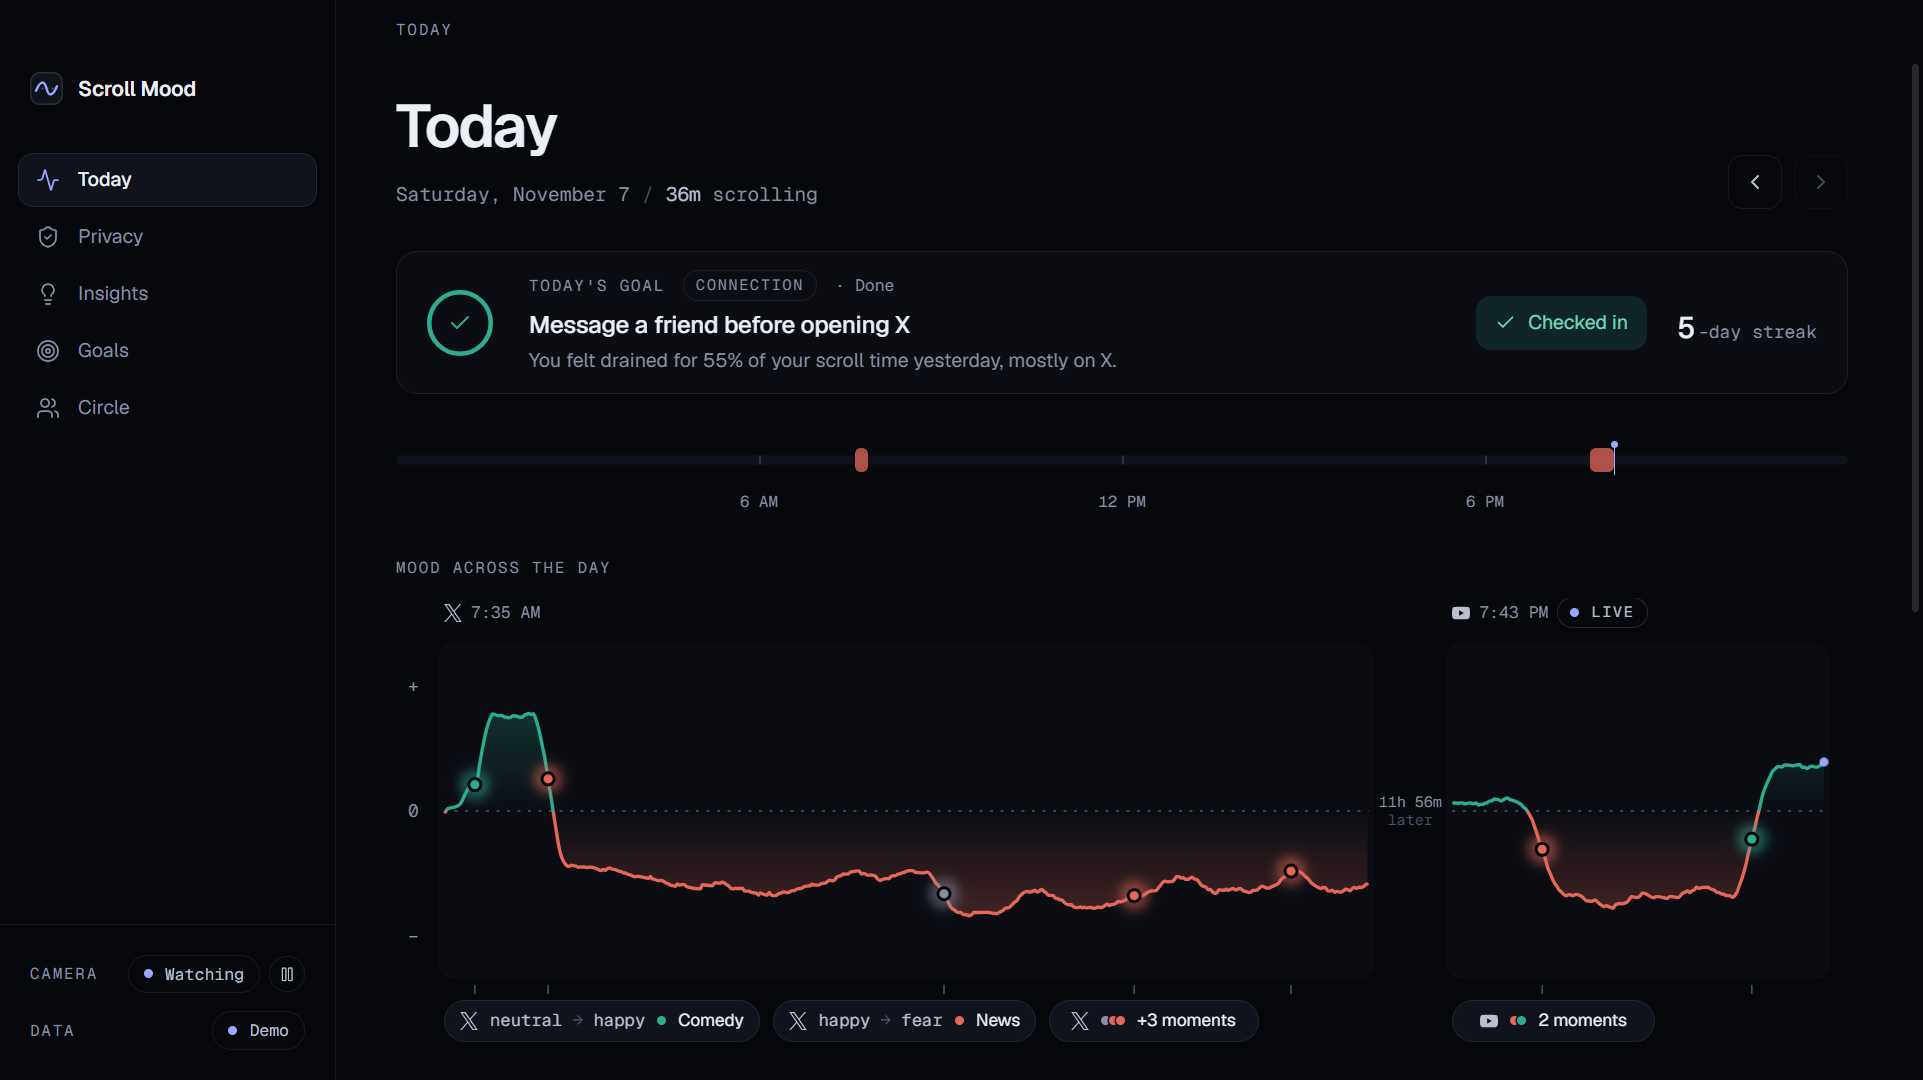
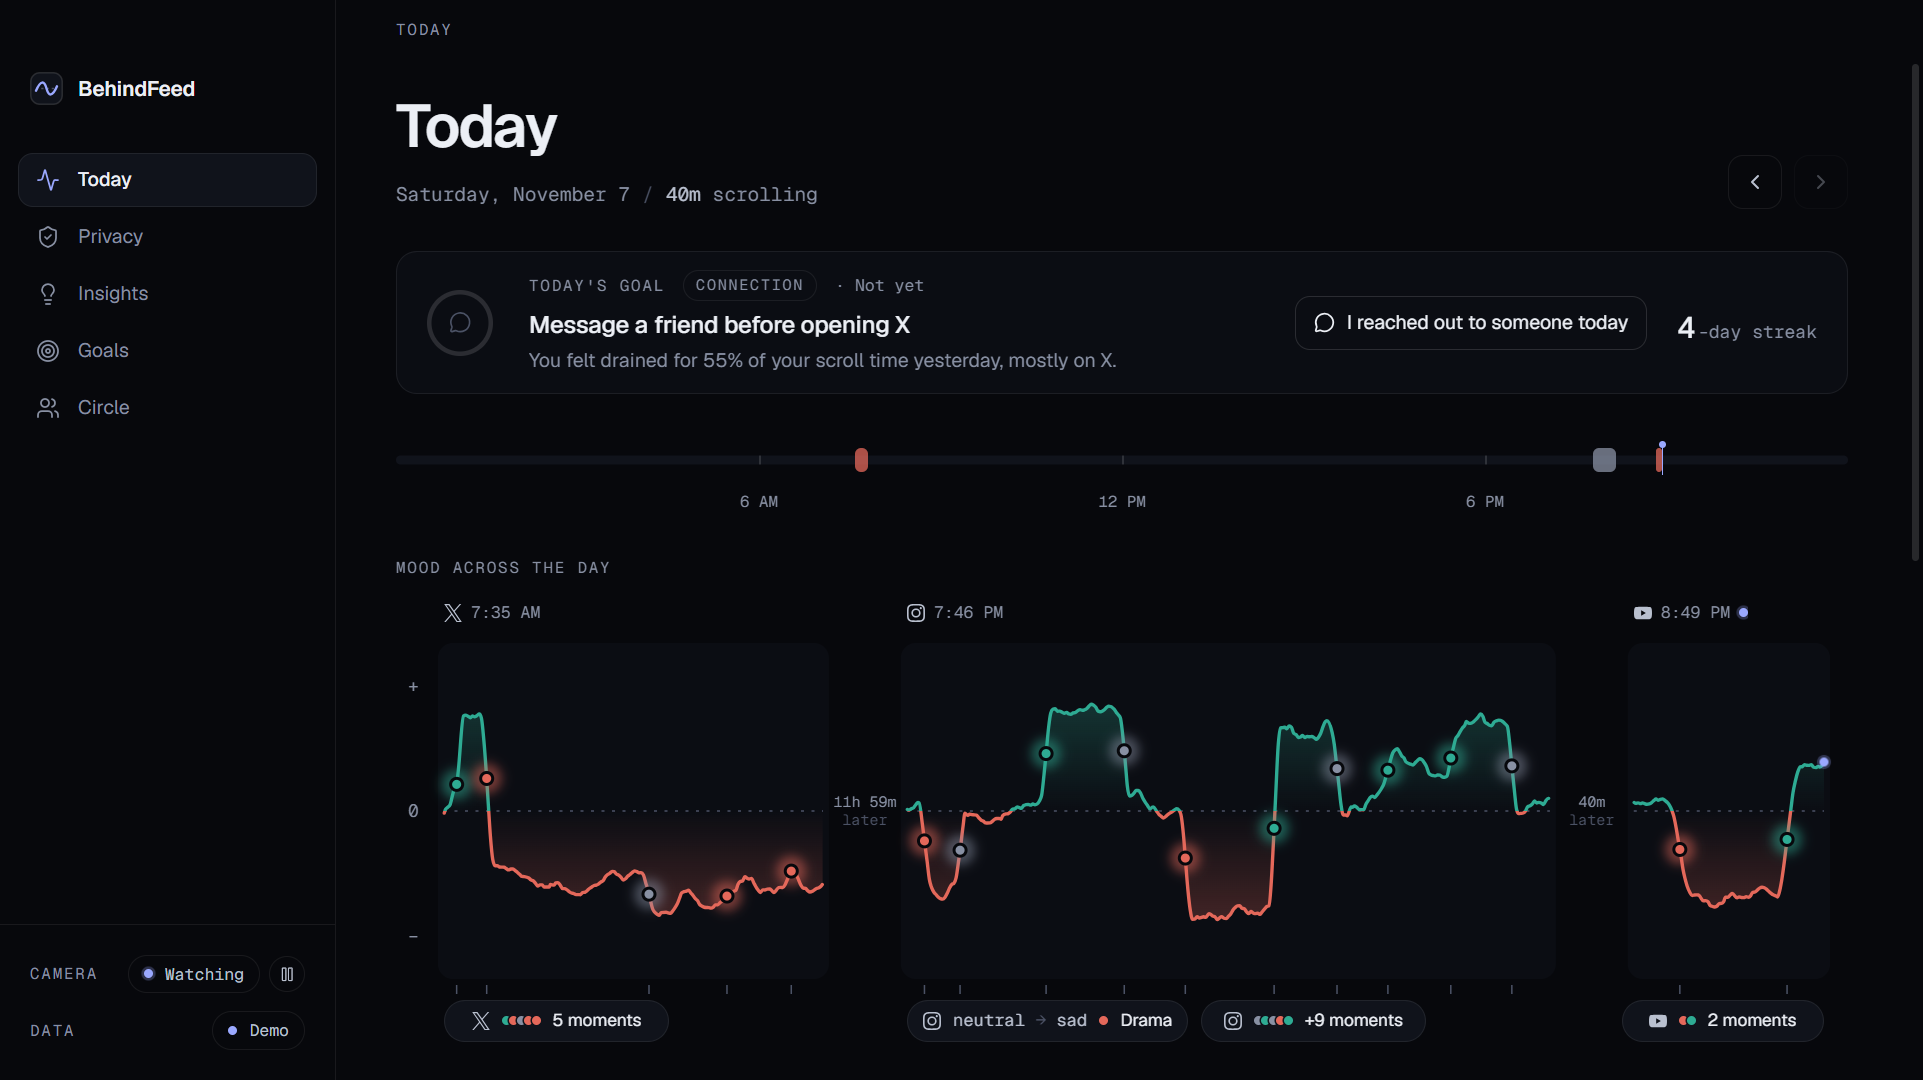
Rename the app from Scroll Mood to BehindFeed
- Window title, wordmark, consent screen, Privacy page, Circle messages
  (bot name and text) and docs now say BehindFeed
- Internal names: preload bridge window.behindfeed (BehindFeedBridge),
  Windows AppUserModelID com.behindfeed.app, storage keys behindfeed.*,
  package name behindfeed-frontend
- README screenshot retaken

diff --git a/frontend/src/data/circle.ts b/frontend/src/data/circle.ts
@@ -1,6 +1,6 @@
 // Scroll Circle: settings, the share path and the demo feed. Settings and the sent log stay on this device
 // (localStorage, try/catch). Sending goes through the Electron main process via the preload bridge.
-import type { DiscordPayload, ScrollMoodBridge, SendResult } from '../types/bridge'
+import type { DiscordPayload, BehindFeedBridge, SendResult } from '../types/bridge'
 import { KEYS, readJson, writeJson } from './localStore'
 
 export interface CircleSettings {
@@ -21,7 +21,7 @@ export interface CircleSample {
   sample: true
 }
 
-const bridge = (): ScrollMoodBridge | undefined => (window as unknown as { scrollMood?: ScrollMoodBridge }).scrollMood
+const bridge = (): BehindFeedBridge | undefined => (window as unknown as { behindfeed?: BehindFeedBridge }).behindfeed
 
 export const getCircleSettings = (): CircleSettings => ({ webhookUrl: '', displayName: '', ...readJson<Partial<CircleSettings>>(KEYS.circle, {}) })
 
@@ -33,7 +33,7 @@ export const getSentLog = (): SentItem[] => readJson<SentItem[]>(KEYS.circleSent
 export async function shareToCircle(payload: DiscordPayload): Promise<SendResult> {
   const { webhookUrl } = getCircleSettings()
   const b = bridge()
-  if (!b) return { ok: false, error: 'unavailable', message: 'Sharing works in the Scroll Mood desktop app.' }
+  if (!b) return { ok: false, error: 'unavailable', message: 'Sharing works in the BehindFeed desktop app.' }
   if (!webhookUrl) return { ok: false, error: 'invalid-url', message: 'Add a Discord webhook URL first.' }
   const result = await b.sendToCircle(webhookUrl, payload)
   if (result.ok) writeJson(KEYS.circleSent, [{ at: Date.now(), content: payload.content }, ...getSentLog()].slice(0, 20))

diff --git a/frontend/src/pages/PrivacyPage.tsx b/frontend/src/pages/PrivacyPage.tsx
@@ -16,7 +16,7 @@ export default function PrivacyPage() {
     <section className="flex flex-col gap-10">
       <header>
         <h1 className="text-[40px] font-semibold leading-none tracking-[-0.03em]">Privacy</h1>
-        <p className="mt-4 max-w-2xl text-[14px] text-muted">What Scroll Mood watches, what it keeps, and the gentle nudges it can give you.</p>
+        <p className="mt-4 max-w-2xl text-[14px] text-muted">What BehindFeed watches, what it keeps, and the gentle nudges it can give you.</p>
       </header>
 
       <PauseCard />
@@ -33,7 +33,7 @@ export default function PrivacyPage() {
             <div className="label">Connect-instead nudges</div>
             <h2 className="mt-2 text-[20px] font-medium tracking-[-0.01em] text-ink">A gentle nudge when scrolling starts to drain you</h2>
             <p className="mt-2 max-w-xl text-[13px] leading-relaxed text-muted">
-              If your mood signal stays below neutral for 5 minutes or more, Scroll Mood suggests something with people or fresh air instead: {NUDGE_SUGGESTIONS.join(', ').toLowerCase()}. One nudge per stretch, shown in the app and as a notification.
+              If your mood signal stays below neutral for 5 minutes or more, BehindFeed suggests something with people or fresh air instead: {NUDGE_SUGGESTIONS.join(', ').toLowerCase()}. One nudge per stretch, shown in the app and as a notification.
             </p>
           </div>
           <Switch

diff --git a/frontend/electron/discord.test.ts b/frontend/electron/discord.test.ts
@@ -49,7 +49,7 @@ describe('sendWebhook', () => {
     expect(received[0].method).toBe('POST')
     expect(received[0].url).toBe('/api/webhooks/123/abc')
     expect(received[0].contentType).toBe('application/json')
-    expect(received[0].body).toEqual({ username: 'Scroll Mood', content: payload.content, allowed_mentions: { parse: [] } })
+    expect(received[0].body).toEqual({ username: 'BehindFeed', content: payload.content, allowed_mentions: { parse: [] } })
   })
 
   it('strips anything extra a caller tries to add to the payload', async () => {
@@ -82,8 +82,8 @@ describe('sendWebhook', () => {
 
   it('refuses empty or oversized messages', async () => {
     const { base, received } = await startServer(204)
-    expect(await sendWebhook(`${base}/w`, { username: 'Scroll Mood', content: '  ' }, { allowAnyUrl: true })).toMatchObject({ ok: false })
-    expect(await sendWebhook(`${base}/w`, { username: 'Scroll Mood', content: 'x'.repeat(2001) }, { allowAnyUrl: true })).toMatchObject({ ok: false })
+    expect(await sendWebhook(`${base}/w`, { username: 'BehindFeed', content: '  ' }, { allowAnyUrl: true })).toMatchObject({ ok: false })
+    expect(await sendWebhook(`${base}/w`, { username: 'BehindFeed', content: 'x'.repeat(2001) }, { allowAnyUrl: true })).toMatchObject({ ok: false })
     expect(received).toHaveLength(0)
   })
 })

diff --git a/frontend/src/lib/circleMessage.ts b/frontend/src/lib/circleMessage.ts
@@ -4,7 +4,7 @@
 // screenshots or raw samples. The inputs below are the only things these functions can see.
 import type { DiscordPayload } from '../types/bridge'
 
-export const CIRCLE_BOT_NAME = 'Scroll Mood'
+export const CIRCLE_BOT_NAME = 'BehindFeed'
 
 export type GoalOutcome = 'met' | 'in-progress' | 'missed'
 
@@ -41,7 +41,7 @@ function changeLine(change: number | null): string | null {
 export function buildProgressMessage(input: ProgressInput): DiscordPayload {
   const name = cleanName(input.displayName)
   const lines = [
-    `**${name}** shared a Scroll Mood check-in`,
+    `**${name}** shared a BehindFeed check-in`,
     `Today's goal: ${input.goalTitle.replace(/\s+/g, ' ').trim().slice(0, 120)} (${outcomeText(input.outcome)})`,
     `Streak: ${input.streak} ${input.streak === 1 ? 'day' : 'days'} in a row`,
     changeLine(input.drainedChange),

diff --git a/frontend/electron/preload.ts b/frontend/electron/preload.ts
@@ -1,11 +1,11 @@
 // Preload: a small, typed bridge. The renderer can only ask the main process to (1) post a Circle message to a
 // Discord webhook and (2) show a native notification. Data still comes from Allen's local API over HTTP.
 import { contextBridge, ipcRenderer } from 'electron'
-import type { DiscordPayload, ScrollMoodBridge } from '../src/types/bridge'
+import type { DiscordPayload, BehindFeedBridge } from '../src/types/bridge'
 
-const bridge: ScrollMoodBridge = {
+const bridge: BehindFeedBridge = {
   sendToCircle: (webhookUrl: string, payload: DiscordPayload) => ipcRenderer.invoke('circle:send', webhookUrl, payload),
   notify: (title: string, body: string) => ipcRenderer.invoke('notify', title, body)
 }
 
-contextBridge.exposeInMainWorld('scrollMood', bridge)
+contextBridge.exposeInMainWorld('behindfeed', bridge)

diff --git a/frontend/src/data/nudgeSettings.ts b/frontend/src/data/nudgeSettings.ts
@@ -1,5 +1,5 @@
 // Nudge preferences and memory, on this device only (localStorage, try/catch).
-import type { ScrollMoodBridge } from '../types/bridge'
+import type { BehindFeedBridge } from '../types/bridge'
 import { KEYS, readJson, writeJson } from './localStore'
 
 interface NudgeState {
@@ -32,6 +32,6 @@ export function markStretchSeen(key: string): boolean {
 
 /** Native notification through the main process (no-op outside the desktop app). */
 export function notifyNative(title: string, body: string) {
-  const b = (window as unknown as { scrollMood?: ScrollMoodBridge }).scrollMood
+  const b = (window as unknown as { behindfeed?: BehindFeedBridge }).behindfeed
   return b?.notify(title, body).catch(() => undefined)
 }

diff --git a/frontend/electron/main.ts b/frontend/electron/main.ts
@@ -5,7 +5,7 @@ import { join } from 'node:path'
 import { sendWebhook } from './discord'
 
 // Windows only shows native notifications for apps with an AppUserModelID.
-app.setAppUserModelId('com.scrollmood.app')
+app.setAppUserModelId('com.behindfeed.app')
 
 // Circle: the renderer can't call Discord directly (CORS), so it asks us. URL and payload are validated in sendWebhook.
 ipcMain.handle('circle:send', (_e, url: unknown, payload: unknown) => sendWebhook(String(url ?? ''), payload))
@@ -32,7 +32,7 @@ function createWindow(): void {
     height: 880,
     minWidth: 1100,
     minHeight: 720,
-    title: 'Scroll Mood',
+    title: 'BehindFeed',
     backgroundColor: theme.bg,
     show: false,
     titleBarStyle: 'hidden',

diff --git a/frontend/src/components/ConsentGate.tsx b/frontend/src/components/ConsentGate.tsx
@@ -26,7 +26,7 @@ export default function ConsentGate({ children }: { children: ReactNode }) {
           <header>
             <h1 className="text-[36px] font-semibold leading-tight tracking-[-0.03em]">Before you start</h1>
             <p className="mt-3 text-[14px] leading-relaxed text-muted">
-              Scroll Mood notices how scrolling makes you feel, so you can choose what lifts you. Here is exactly what it records. You can pause the camera any time.
+              BehindFeed notices how scrolling makes you feel, so you can choose what lifts you. Here is exactly what it records. You can pause the camera any time.
             </p>
           </header>
 

diff --git a/frontend/src/data/localStore.ts b/frontend/src/data/localStore.ts
@@ -21,10 +21,10 @@ export function writeJson(key: string, value: unknown): boolean {
 }
 
 export const KEYS = {
-  checkins: 'scrollmood.checkins.v1',
-  goalHistory: (source: string) => `scrollmood.goalHistory.v1.${source}`,
-  circle: 'scrollmood.circle.v1',
-  circleSent: 'scrollmood.circleSent.v1',
-  nudges: 'scrollmood.nudges.v1',
-  consent: 'scrollmood.consent.v1'
+  checkins: 'behindfeed.checkins.v1',
+  goalHistory: (source: string) => `behindfeed.goalHistory.v1.${source}`,
+  circle: 'behindfeed.circle.v1',
+  circleSent: 'behindfeed.circleSent.v1',
+  nudges: 'behindfeed.nudges.v1',
+  consent: 'behindfeed.consent.v1'
 } as const

diff --git a/frontend/src/types/bridge.ts b/frontend/src/types/bridge.ts
@@ -10,8 +10,8 @@ export type SendError = 'invalid-url' | 'offline' | 'rejected' | 'timeout' | 'un
 
 export type SendResult = { ok: true } | { ok: false; error: SendError; message: string; status?: number }
 
-/** The API the preload script exposes on window.scrollMood. */
-export interface ScrollMoodBridge {
+/** The API the preload script exposes on window.behindfeed. */
+export interface BehindFeedBridge {
   sendToCircle(webhookUrl: string, payload: DiscordPayload): Promise<SendResult>
   notify(title: string, body: string): Promise<void>
 }

diff --git a/frontend/src/components/Wordmark.tsx b/frontend/src/components/Wordmark.tsx
@@ -7,7 +7,7 @@ export default function Wordmark() {
         <line x1="4" x2="18" y1="11" y2="11" stroke="var(--faint)" strokeWidth="1" strokeDasharray="1.5 2" />
         <path d="M4 12.5 C 7 5.5, 9.5 5.5, 11 11 S 15 16.5, 18 9.5" fill="none" stroke="var(--accent)" strokeWidth="1.6" strokeLinecap="round" />
       </svg>
-      <span className="text-[14px] font-semibold tracking-[-0.01em] text-ink">Scroll Mood</span>
+      <span className="text-[14px] font-semibold tracking-[-0.01em] text-ink">BehindFeed</span>
     </div>
   )
 }

diff --git a/frontend/src/pages/CirclePage.tsx b/frontend/src/pages/CirclePage.tsx
@@ -124,7 +124,7 @@ export default function CirclePage() {
                 {sent.slice(0, 5).map((m) => (
                   <li key={m.at}>
                     <MessagePreview
-                      payload={{ content: m.content, username: 'Scroll Mood' }}
+                      payload={{ content: m.content, username: 'BehindFeed' }}
                       meta={new Date(m.at).toLocaleString([], { weekday: 'short', hour: 'numeric', minute: '2-digit' })}
                     />
                   </li>
